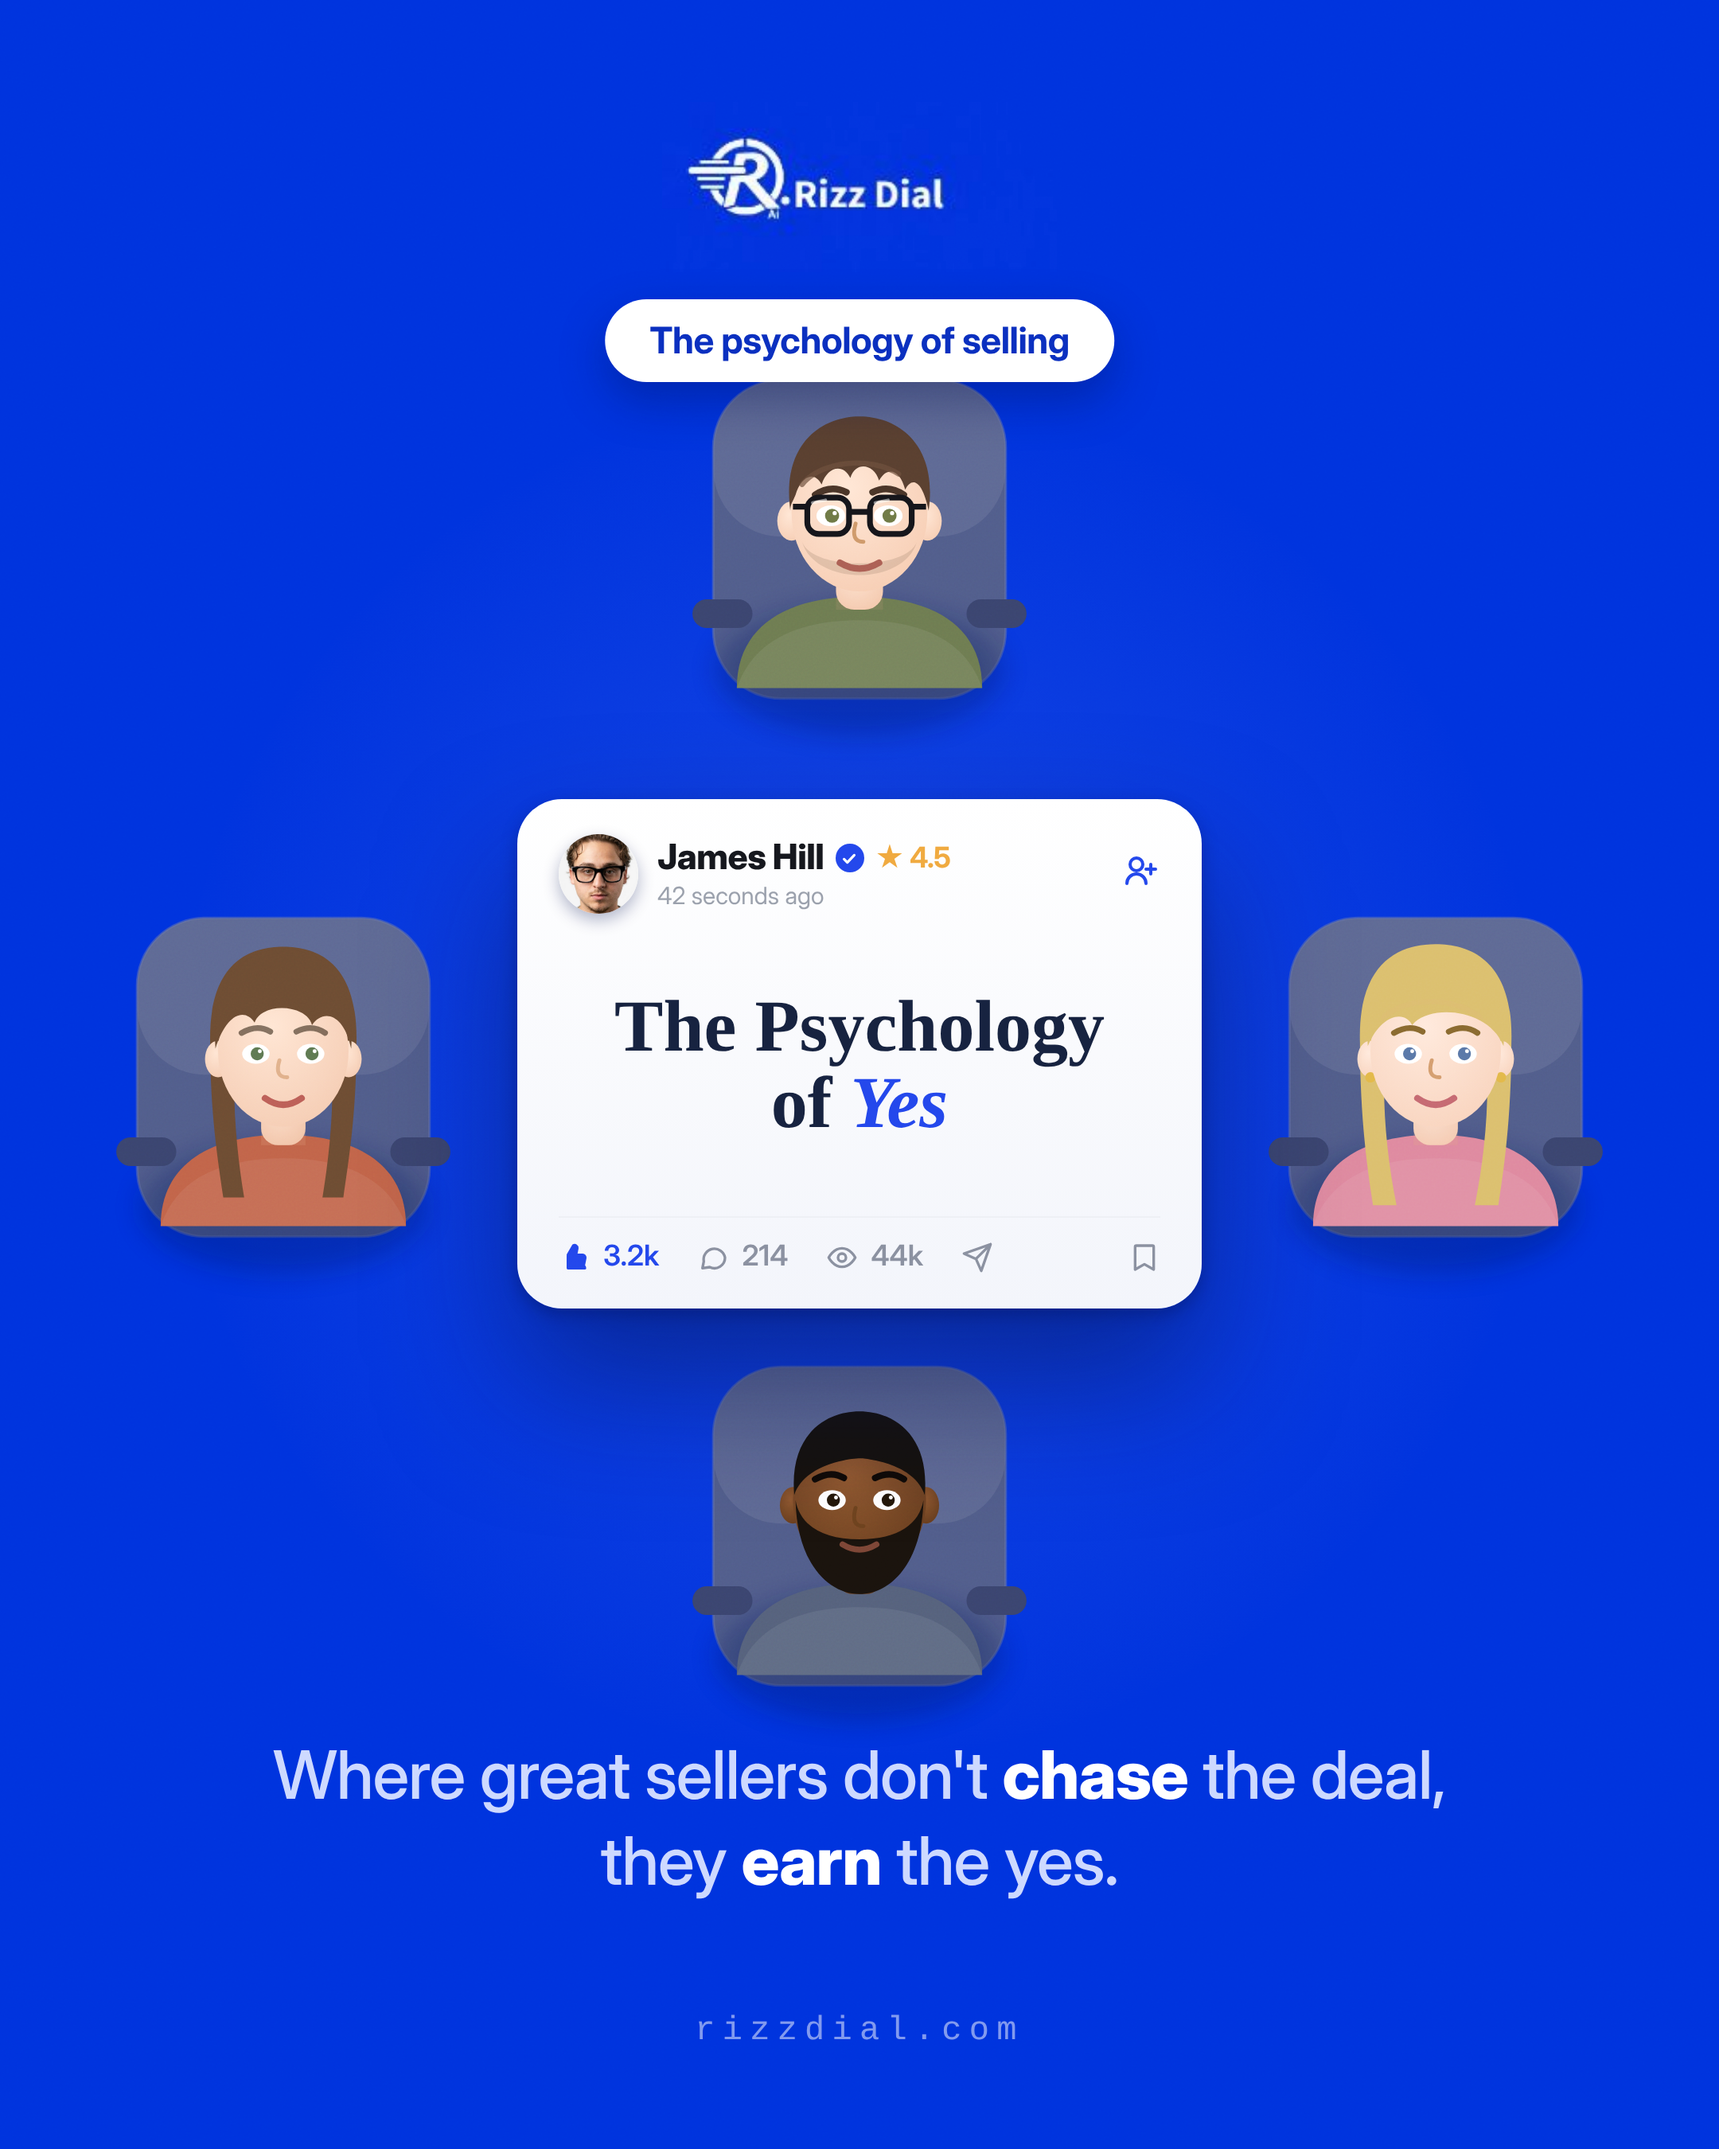
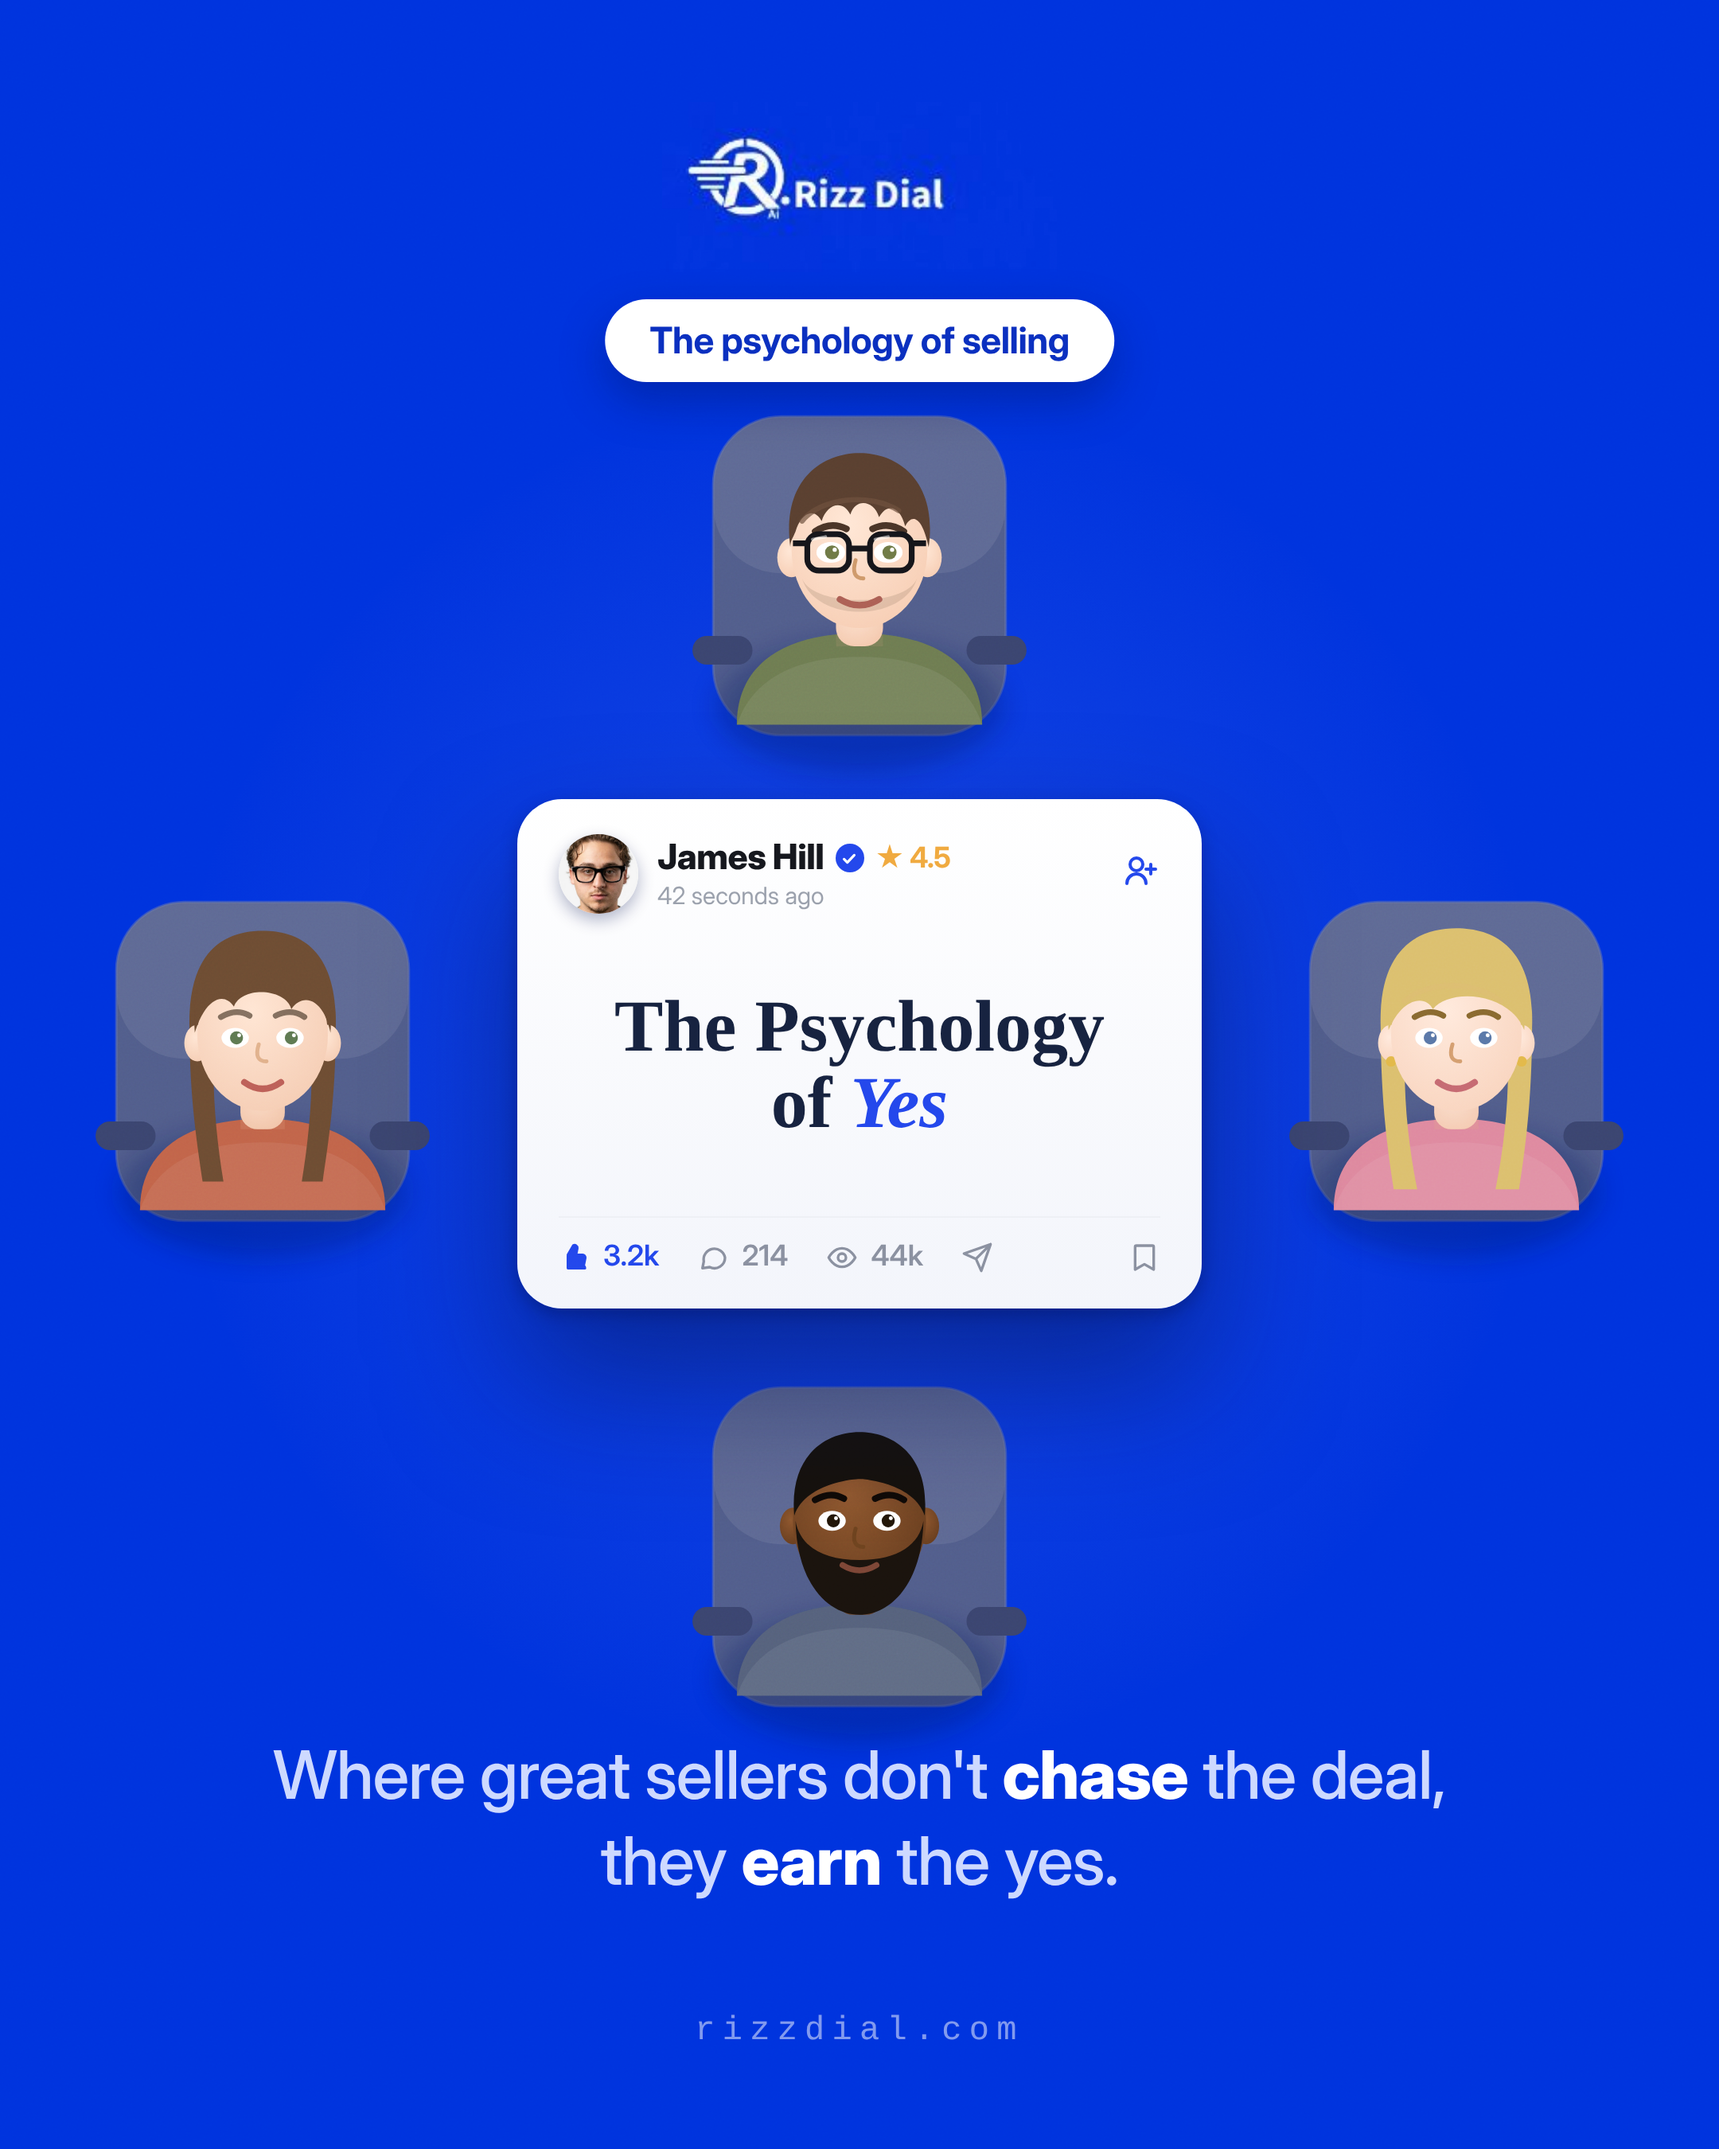
Board: align all four to the card midlines (balanced symmetric cross)
- Left/right faces locked to card vertical center (y=662)
- Top/bottom faces on horizontal center (x=540), now symmetric
  (302px / 297px) instead of lopsided 338/282

diff --git a/design/carousel/board-final3.html b/design/carousel/board-final3.html
@@ -76,7 +76,7 @@
     </defs>
 
     <!-- ===== TOP — white man, glasses (James), olive shirt ===== -->
-    <g transform="translate(540,324) scale(.82)">
+    <g transform="translate(540,347) scale(.82)">
       <use href="#chairback"/>
       <use href="#torso" style="color:#6f7d52"/>
       <rect x="-18" y="38" width="36" height="34" rx="14" fill="url(#skA)"/><rect x="-18" y="52" width="36" height="20" fill="#e6ac88" opacity=".12"/>
@@ -95,7 +95,7 @@
     </g>
 
     <!-- ===== RIGHT — white woman, blonde long hair ===== -->
-    <g transform="translate(902,662) scale(.82)">
+    <g transform="translate(915,652) scale(.82)">
       <use href="#chairback"/>
       <use href="#torso" style="color:#df8aa0"/>
       <path d="M-58 -8 C-60 -68 -30 -84 0 -84 C30 -84 60 -68 58 -8 C58 50 52 90 48 116 L30 116 C38 76 42 32 38 -10 C28 -44 -28 -44 -38 -10 C-42 32 -38 76 -30 116 L-48 116 C-52 90 -58 50 -58 -8 Z" fill="#dcc06f"/>
@@ -113,7 +113,7 @@
     </g>
 
     <!-- ===== BOTTOM — Black man, beard ===== -->
-    <g transform="translate(540,944) scale(.82)">
+    <g transform="translate(540,957) scale(.82)">
       <use href="#chairback"/>
       <use href="#torso" style="color:#56627d"/>
       <rect x="-18" y="38" width="36" height="32" rx="13" fill="url(#skC)"/>
@@ -129,7 +129,7 @@
     </g>
 
     <!-- ===== LEFT — brunette woman, wavy hair ===== -->
-    <g transform="translate(178,662) scale(.82)">
+    <g transform="translate(165,652) scale(.82)">
       <use href="#chairback"/>
       <use href="#torso" style="color:#c2654a"/>
       <path d="M-56 -6 C-58 -66 -30 -82 0 -82 C30 -82 58 -66 56 -6 C56 46 50 82 46 110 L30 110 C36 74 40 30 36 -8 C26 -42 -26 -42 -36 -8 C-40 30 -36 74 -30 110 L-46 110 C-50 82 -56 46 -56 -6 Z" fill="#6e4d33"/>
@@ -145,10 +145,10 @@
     </g>
 
     <!-- armrests (in front of each person) -->
-    <use href="#armrests" transform="translate(540,324) scale(.82)"/>
-    <use href="#armrests" transform="translate(902,662) scale(.82)"/>
-    <use href="#armrests" transform="translate(540,944) scale(.82)"/>
-    <use href="#armrests" transform="translate(178,662) scale(.82)"/>
+    <use href="#armrests" transform="translate(540,347) scale(.82)"/>
+    <use href="#armrests" transform="translate(915,652) scale(.82)"/>
+    <use href="#armrests" transform="translate(540,957) scale(.82)"/>
+    <use href="#armrests" transform="translate(165,652) scale(.82)"/>
   </svg>
 
   <div class="card">
